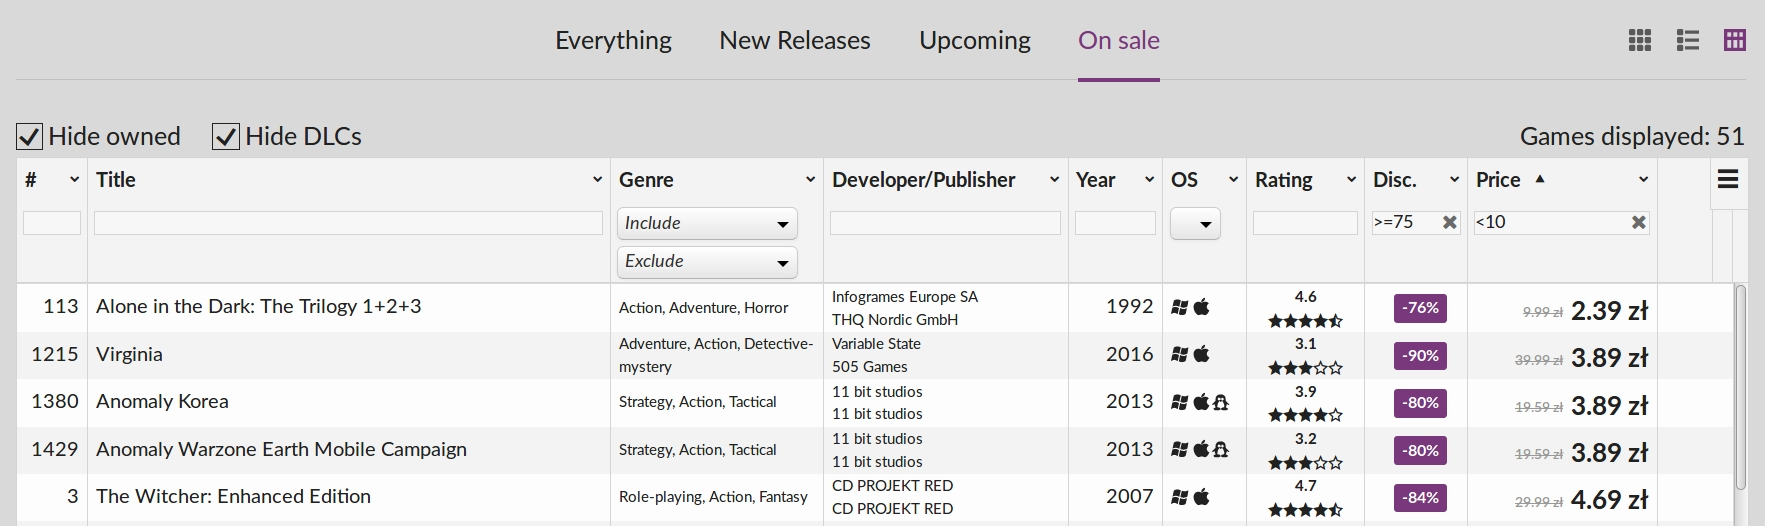
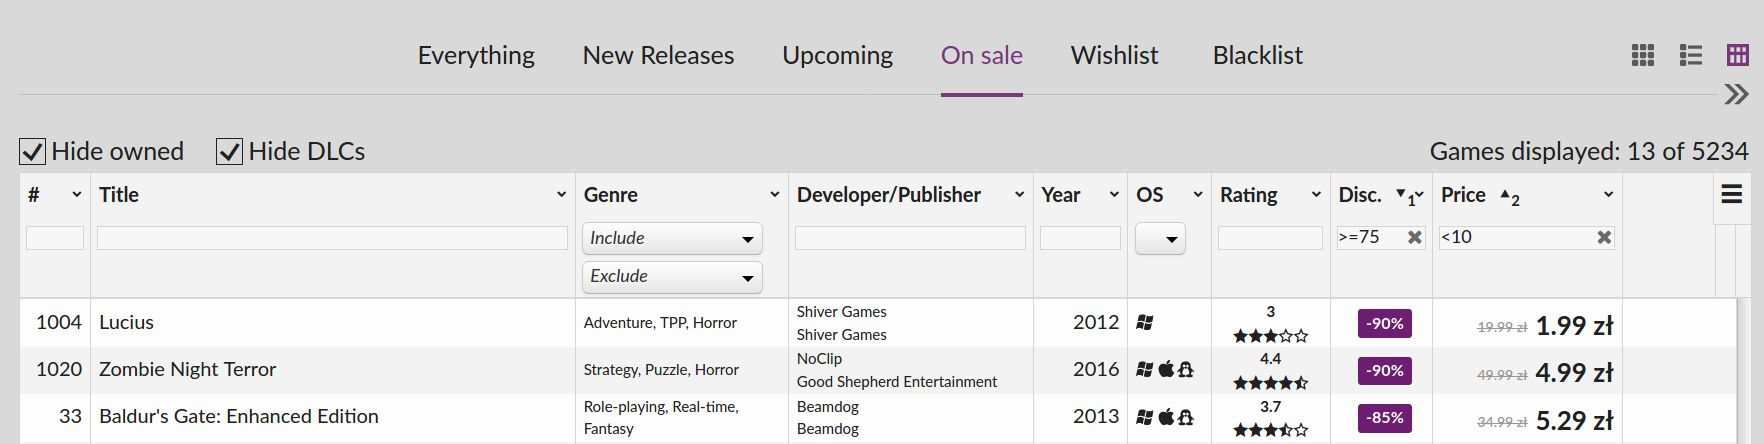
Updated README and refreshed screenshots to current version.

diff --git a/README.md b/README.md
@@ -2,7 +2,7 @@
 
 ## Overview
 
-This user script adds a third way to display games in the store view at [https://gog.com/games](https://gog.com/games). It works by downloading the entire catalogue data from gog and putting it in a [generic angular.js grid control](http://ui-grid.info/). This way, all the sorting and filtering can be done at client side, which greatly improves performance for the end user (although maybe not so for gog servers :)). The download size of the whole data is ~2.5MB.
+This user script adds a third way to display games in the store view at [https://gog.com/games](https://gog.com/games). It works by downloading the entire catalogue data from gog and putting it in a [generic angular.js grid control](http://ui-grid.info/). This way, all the sorting and filtering can be done at client side, which greatly improves performance for the end user (although maybe not so for gog servers :)). The download size of the whole data is ~3MB.
 
 ![](https://github.com/ghorint2t/scripts/raw/master/doc/img/sale_sorting.jpg "Helpful sorting for large sales")
 
@@ -21,8 +21,11 @@ This user script adds a third way to display games in the store view at [https:/
   * Current price
 - Option to filter out DLCs
 - Option to filter out owned games
-- Integration with wishlist/cart from the store
-- Grid state (column widths, visibility and filters) are saved in browser local storage
+- Integration with wishlist/cart from the store, with a separate tab added for viewing (and sorting) your wishlist
+- A blacklist of games that will be excluded from all searches
+- Grid state (column widths, visibility, filters and blacklist) are saved in browser local storage between sessions
+- Option to save and load the grid configuraration (including blacklist) either to transfer your blacklist between browsers/devices, or to save your favorite filter setups.
+- Option to view the grid in full screen width
 
 ## Details
 
@@ -35,6 +38,7 @@ This user script adds a third way to display games in the store view at [https:/
 - For the price filter, the 0.01 rounding is taken into account when filtering, eg. both "10" and ">=10" filters will include 9.99 priced games.
 - TBA games have their price internally set to -1 for purposes of sorting and filtering. Use "0.1-10" range filter instead of "<10" operator filter if you want to exclude free/TBA games from your searches (doesn't affect 'On Sale' tab, as free/TBA games are never discounted).
 - Thumbnail images can be turned on from 'Title' column's menu
+- Blacklist is stored in local browser cache; to use the same list in another browser and/or device, use the save and load buttons below the grid.
 
 ## Example filters
 
